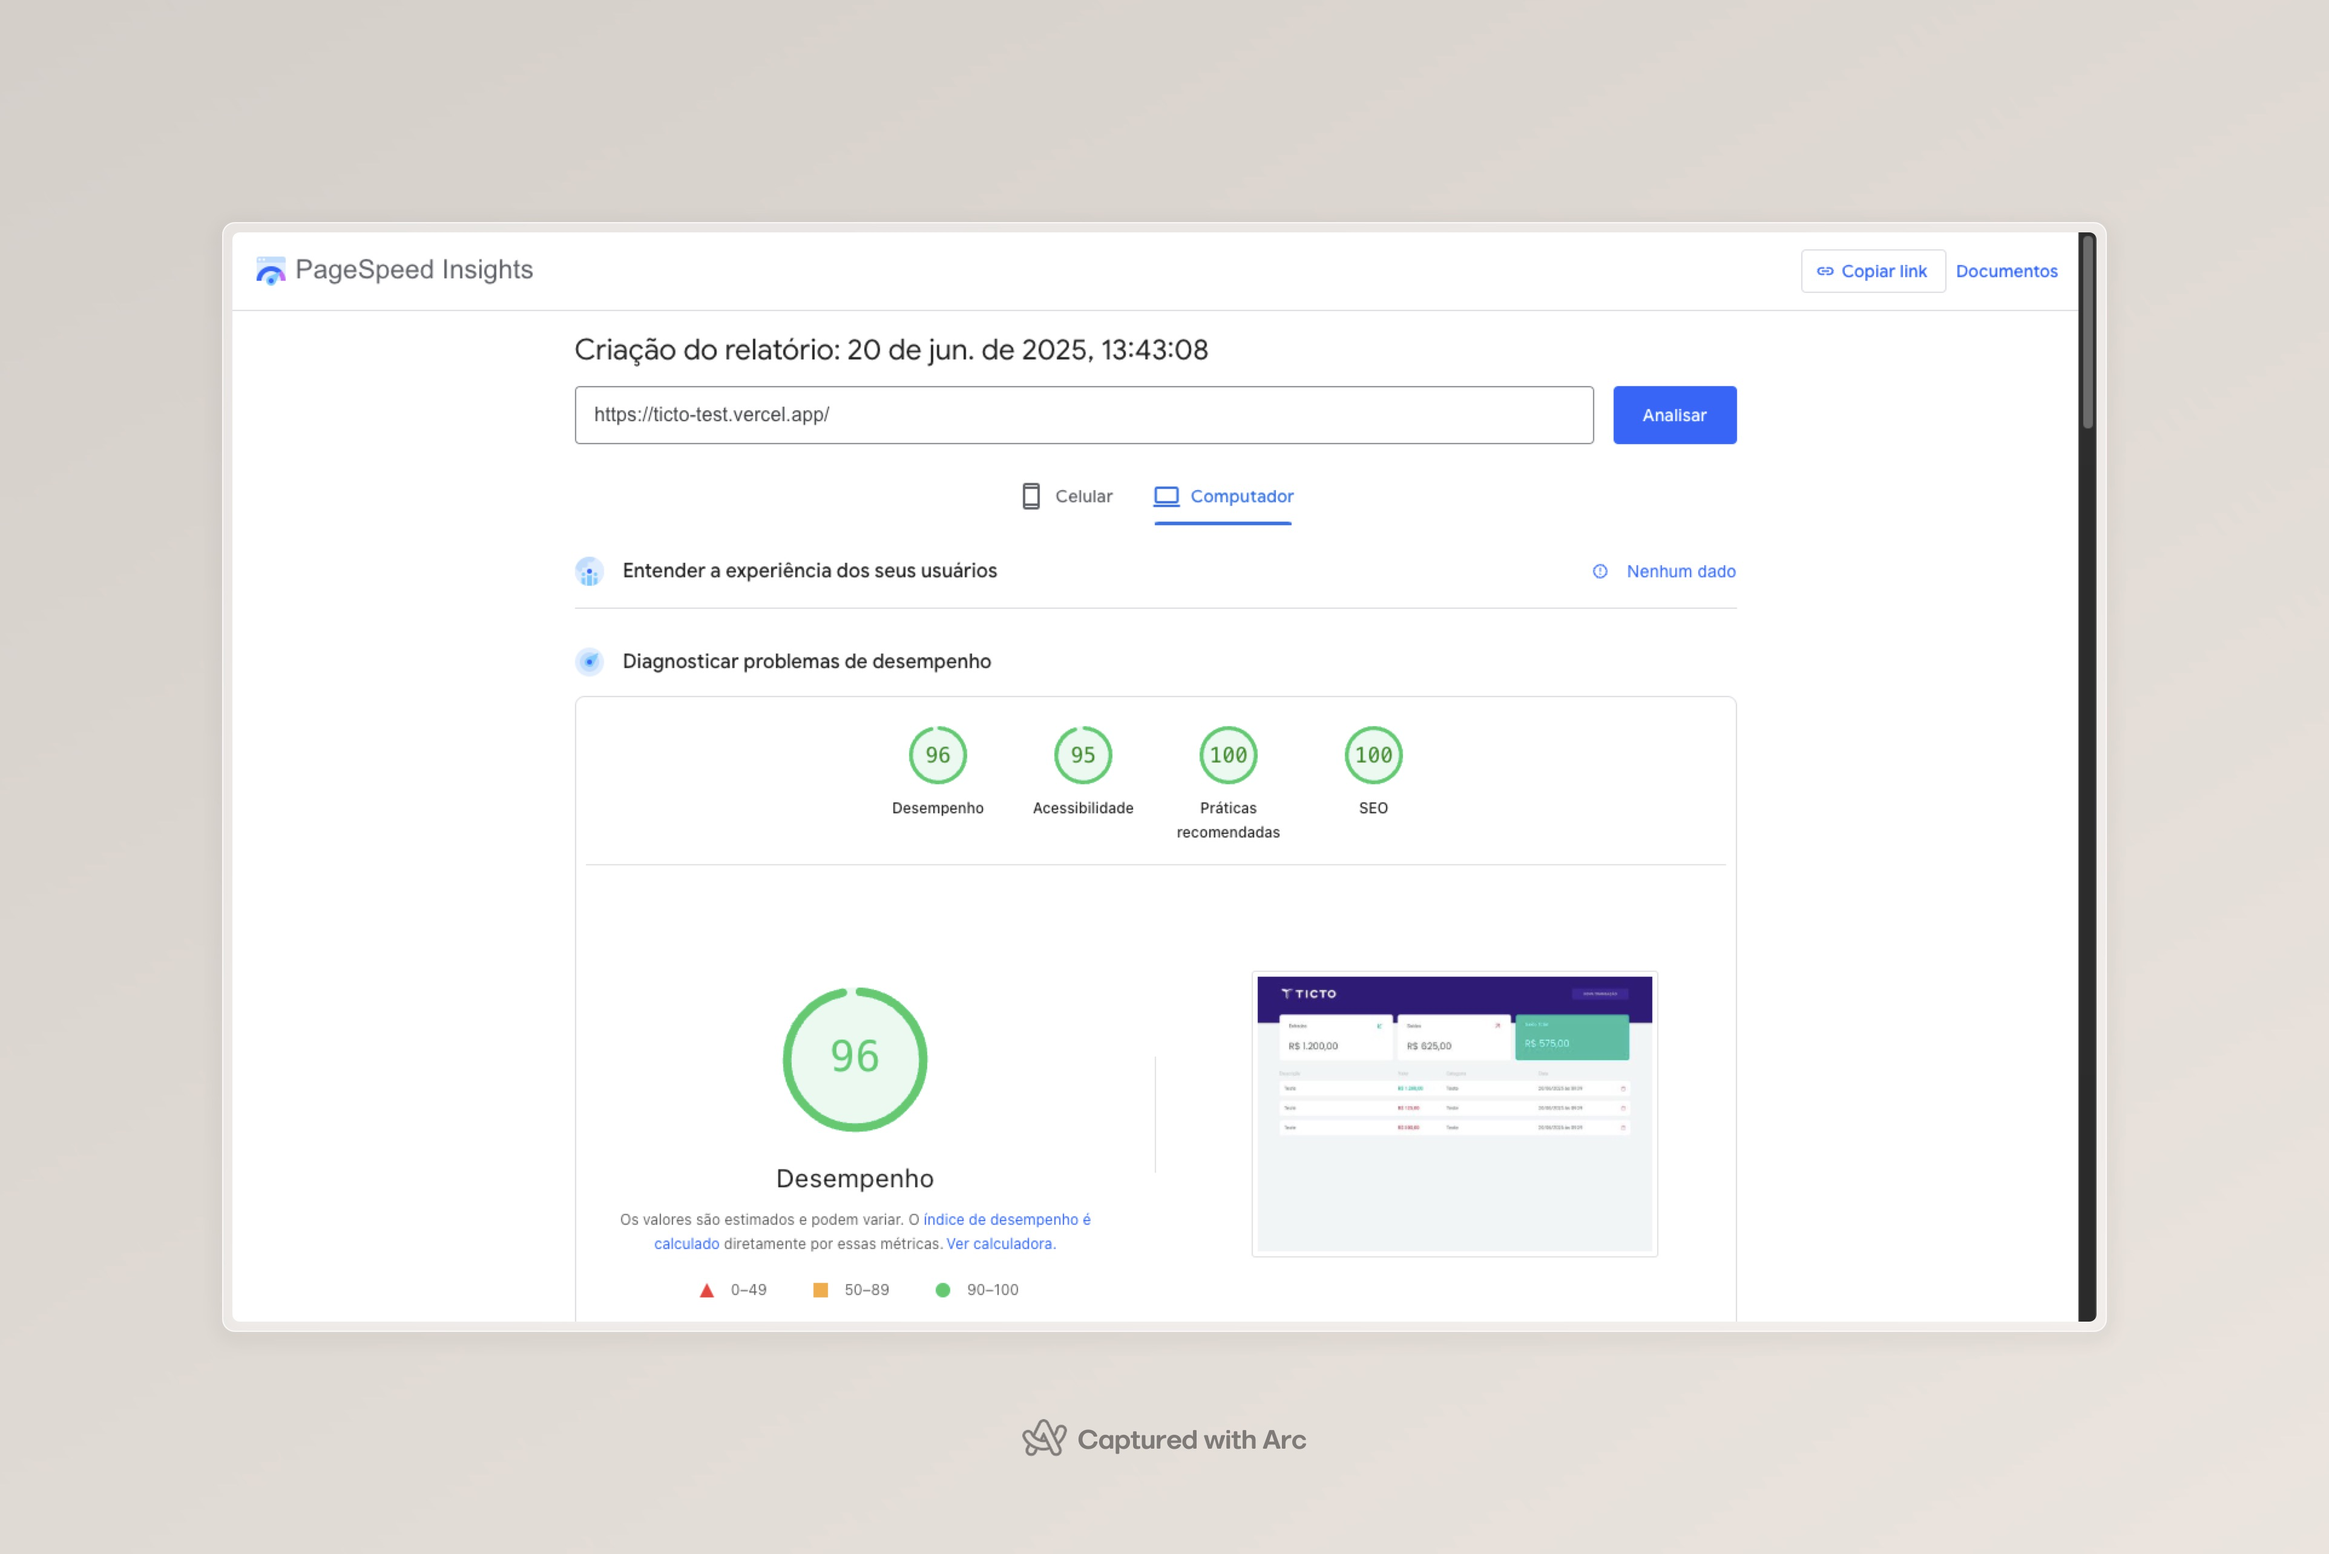
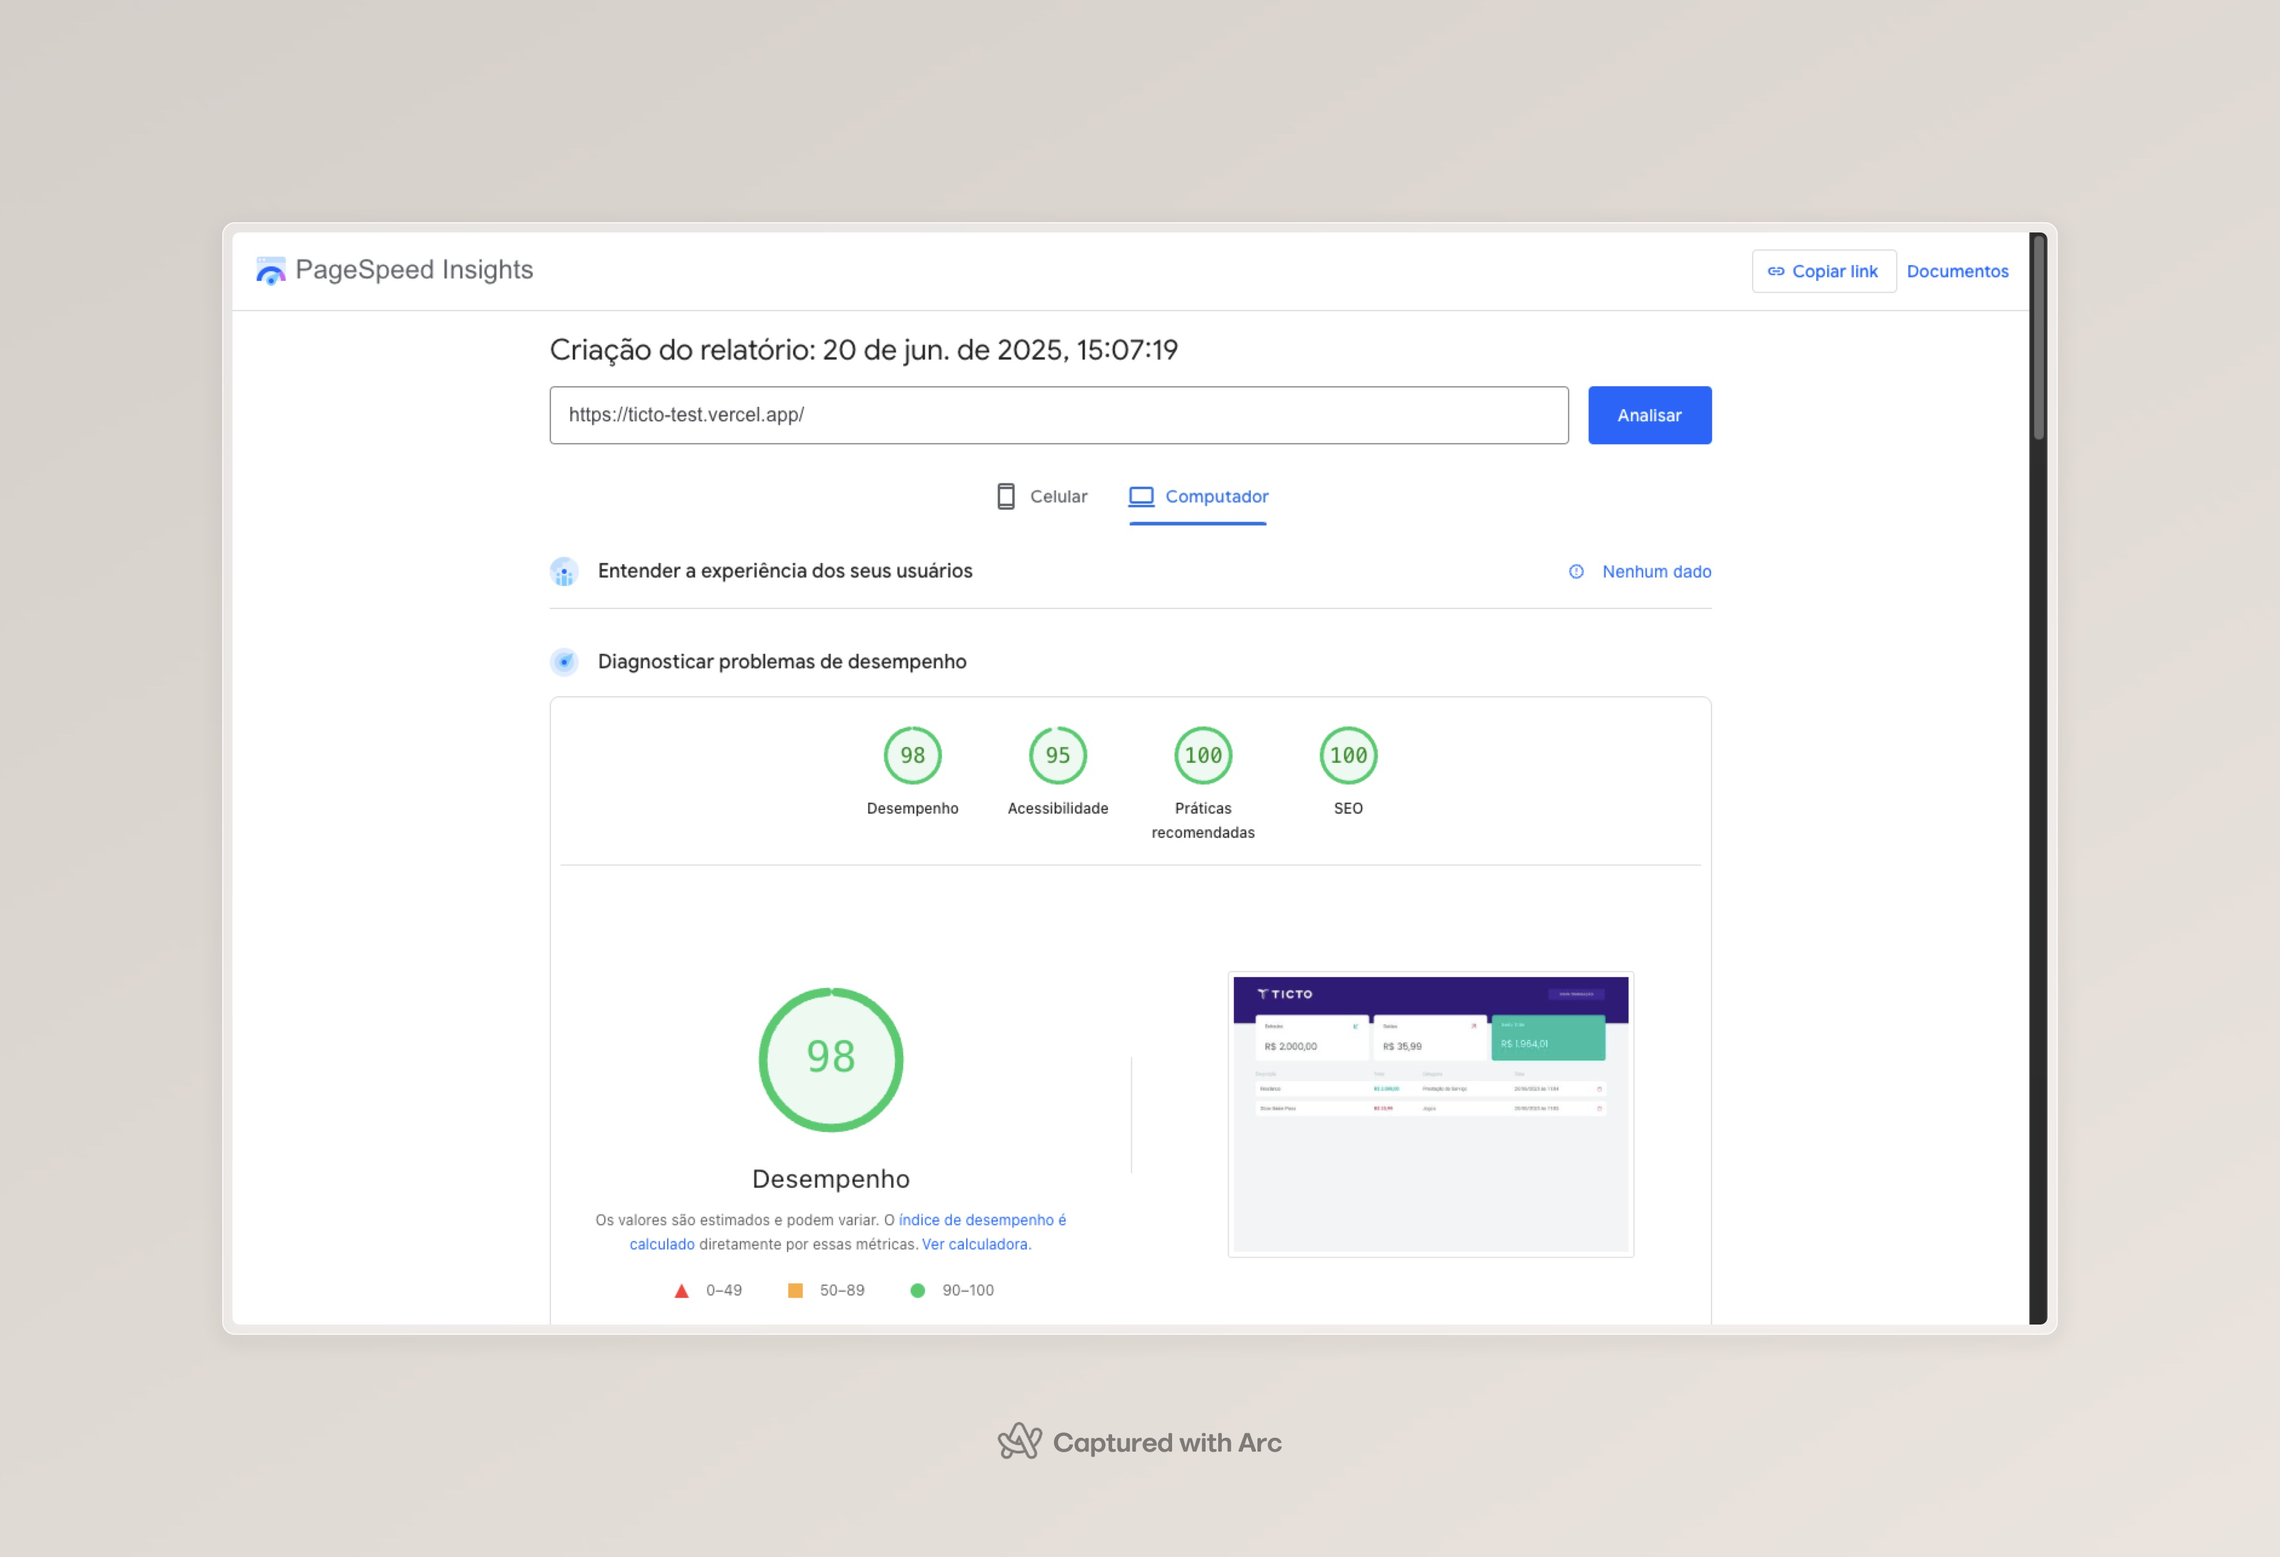
docs: update insights evidence

diff --git a/README.md b/README.md
@@ -39,7 +39,7 @@ This project is a financial control application where you can:
 
 ![Lighthouse Score](./docs/assets/insights.jpeg)
 
-- [Access here](https://pagespeed.web.dev/analysis/https-ticto-test-vercel-app/o0r3dzkiue?form_factor=desktop)
+- [Access here](https://pagespeed.web.dev/analysis/https-ticto-test-vercel-app/ch7yjw0im2?form_factor=desktop)
 
 - FCP (First Contentful Paint): 0.2s
 - LCP (Largest Contentful Paint): 0.8s
